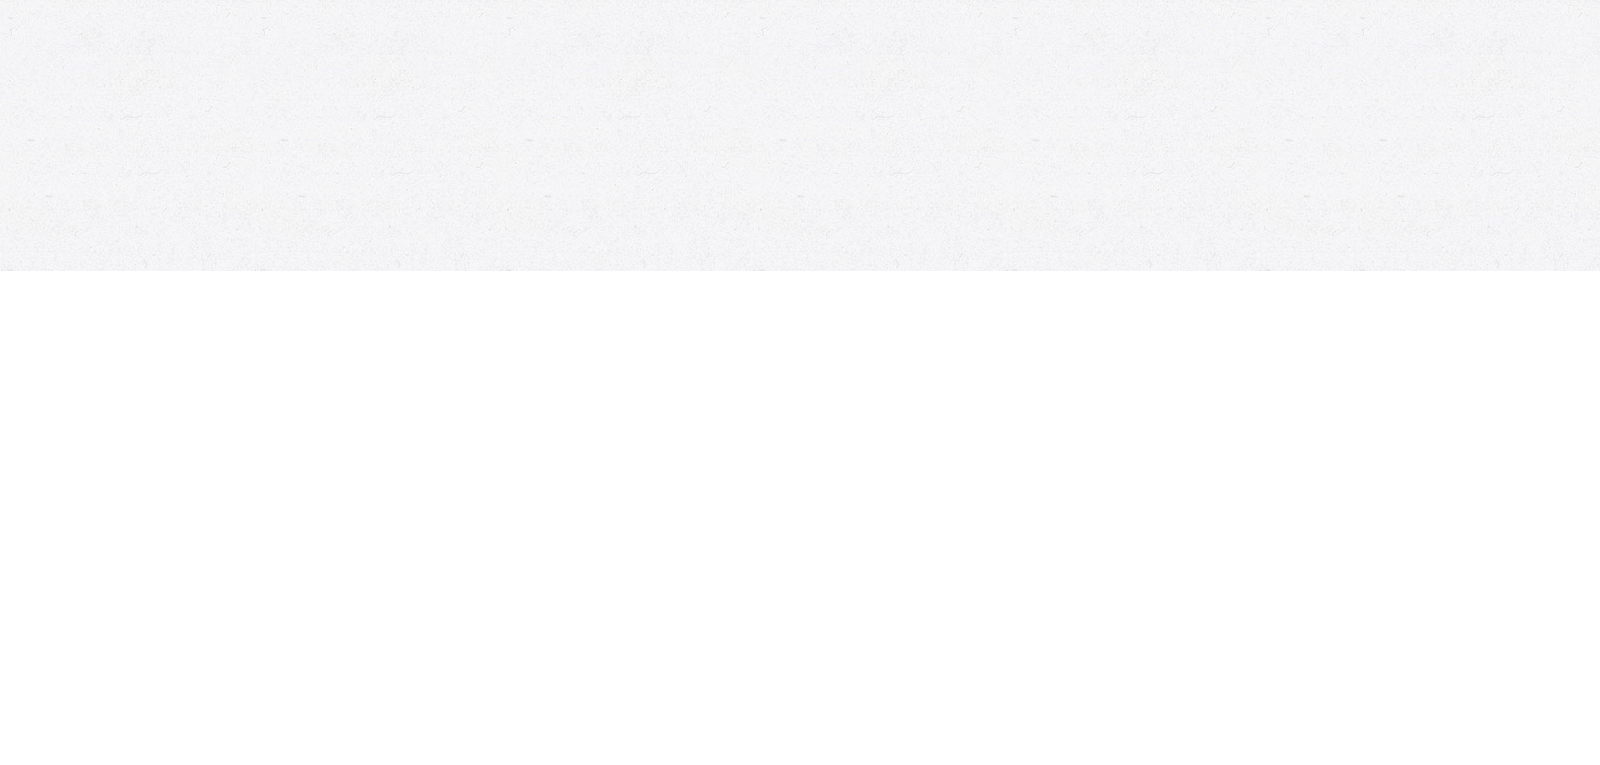
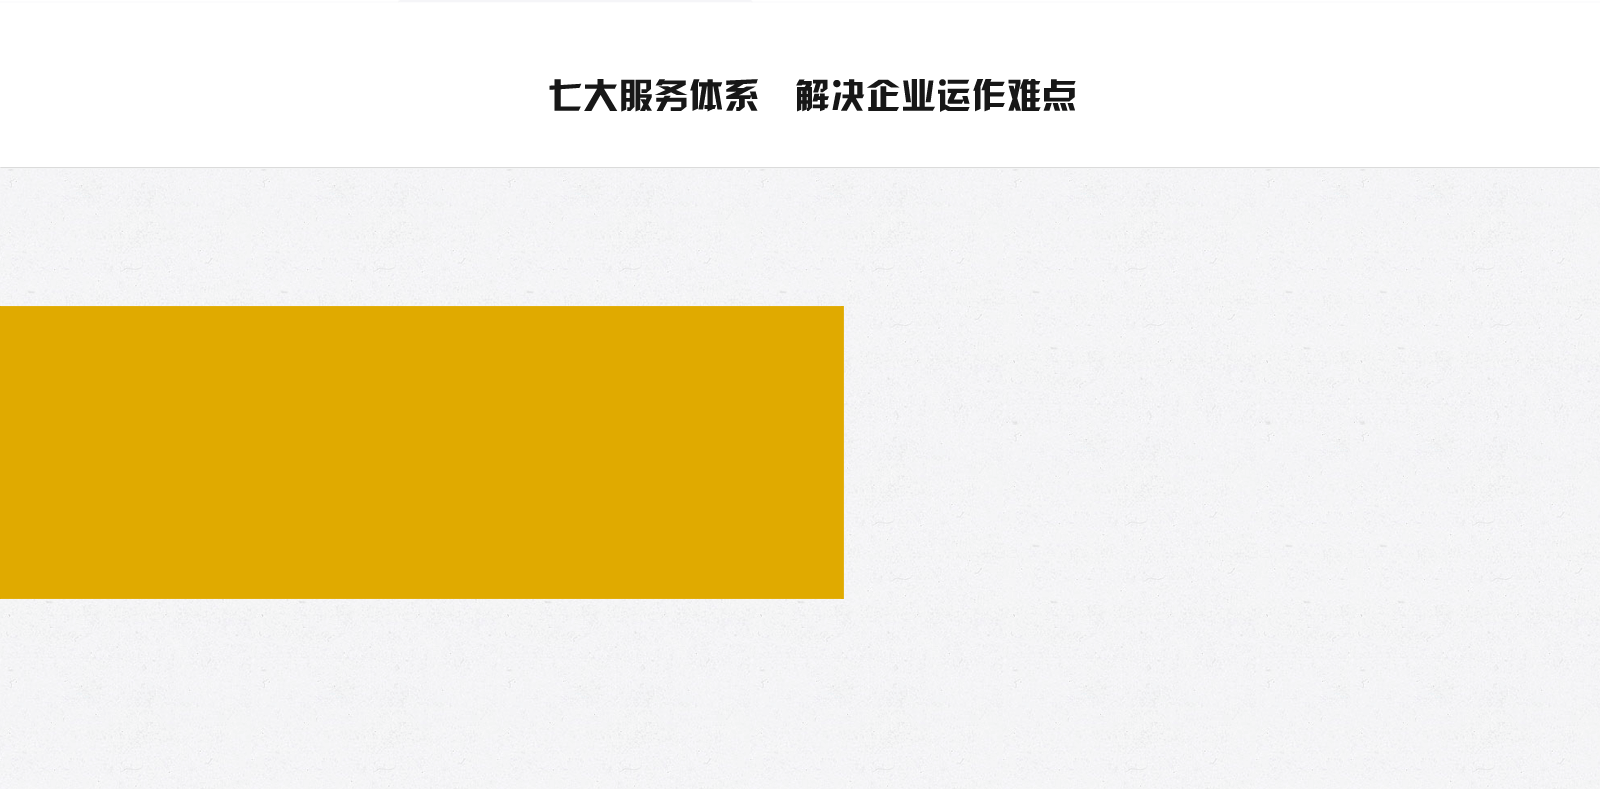
update初步

Changed region(s): [[0.0, 0.3608, 0.5312, 0.7817], [0.3438, 0.0902, 0.6875, 0.1503]]

diff --git a/www/routers/update.vue b/www/routers/update.vue
@@ -8,12 +8,13 @@
         <header1></header1>
         <!--update start-->
         <div update>
-            <div class="swiper-wrapper">
-                <div class="swiper-slide slide1">
-                    <img src="../resources/images/update/update.jpg" alt="">
-                </div>
-                <div class="swiper-slide pr slide2">
+            <div class="update-wrapper">
+                <div class="update-slide slide1">
                     <img src="../resources/images/update/update_01.png" alt="">
+                </div>
+                <div class="update-slide slide2">
+                    <img src="../resources/images/update/update_02.png" alt="">
+                    <img class="slide_two_title" src="../resources/images/update/up_icon/slide_two_title.png" alt="">
                     <div class="up_two_prag" id="animate_2">
                         <p>企业升级服务部以提供专业化服务为宗旨，解决用户在发展过程中遇到的有碍其成长的资金、人力、风险控制等困扰因素为目标，以办公空间为载体，
                             通过提供财税服务、法务服务、人力资源服务、商学院服务、FA服务等内容，与客户建立深度链接、超强黏性，进而带来新的办公空间需求，通过对空
@@ -29,7 +30,8 @@
                         <span><i class="up_icon5"></i>FA服务</span>
                     </div>
                 </div>
-                <div class="swiper-slide slide3">
+                <div class="update-slide slide3">
+                    <img src="../resources/images/update/update_03.png" alt="">
                     <ul class="update_ser_wrap" id="animate2">
                         <li class="clearfix">
                                 <span class="fl up_left_box">
@@ -70,7 +72,8 @@
                         <p>登录幼狮科技企业服务平台，您可以享受舒适的办公空间，结交优质的商业合作伙伴，获得高效的专属服务。</p>
                     </div>
                 </div>
-                <div class="swiper-slide slide4">
+                <div class="update-slide slide4">
+                    <img src="../resources/images/update/update_04.png" alt="">
                     <div class="serice_four_right" id="animate4_1">
                         <h3>财/法/税支持</h3>
                         <p>数家知名会计事务所／律师事务所，针对不同行业，</p>
@@ -99,7 +102,8 @@
                     <img class="male_icon" src="../resources/images/update/male_icon.png" alt="">
 
                 </div>
-                <div class="swiper-slide slide5">
+                <div class="update-slide slide5">
+                    <img src="../resources/images/update/update_05.png" alt="">
                     <img class="light_icon" src="../resources/images/update/light_icon.png" alt="">
 
                     <div class="serice_five_right" id="animate5_1">
@@ -115,7 +119,7 @@
                         </div>
                     </div>
                 </div>
-                <div class="swiper-slide slide6">
+                <div class="update-slide slide6">
                     <img class="female_icon" src="../resources/images/update/female_icon.png" alt="">
                     <div class="serice_six" id="animate6">
                         <h3 class="mb10">幼狮商学院</h3>
@@ -124,7 +128,6 @@
                         <p>同时发起并展开论坛、讲座、沙龙等丰富的交流活动。</p>
                     </div>
                     <img class="four_icon" src="../resources/images/update/four_icon.png" alt="">
-                    <img class="hr_icon" src="../resources/images/update/hr_icon.png" alt="">
                     <div class="serice_seven half" id="animate6_half">
                         <h3 class="mb10">人力资源服务</h3>
                         <p>根据企业发展战略的要求，及对人才的需求</p>
@@ -132,7 +135,8 @@
                         <p>源的有效开发与优化配置</p>
                     </div>
                 </div>
-                <div class="swiper-slide slide7">
+                <div class="update-slide slide7">
+                    <img src="../resources/images/update/update_07.png" alt="">
                     <div class="serice_seven" id="animate7">
                         <h3 class="mb10">人力资源服务</h3>
                         <p>根据企业发展战略的要求，及对人才的需求</p>
@@ -140,31 +144,6 @@
                         <p>源的有效开发与优化配置</p>
                     </div>
                     <img class="hr_icon_1" src="../resources/images/update/hr_icon.png" alt="">
-
-                    <div footer>
-                        <div class="contents foot_head clearfix">
-                            <div class="fl">
-                                <h3>北京幼狮科技有限公司</h3>
-                                <p><i class="commerce_tel"></i>400-078-8800</p>
-                                <p class="lion_address">地址：北京市朝阳区东三环中路39号建外SOHO东区A座2503</p>
-                            </div>
-                            <div class="fr">
-                                <img src="../resources/images/ys_weixin.jpg" alt="幼狮微信"
-                                     style="width: 98px;height: 98px;"/>
-                                <span class="weixin_text">幼狮官网</span>
-                            </div>
-                        </div>
-                        <div class="foot_bot">
-                            <div class="contents">
-                                <span class="bottom_copyright fl">北京幼狮科技有限公司 保留所有权利&nbsp;&nbsp;京ICP备20176444</span>
-                                <div class="fr">
-                                      <span>
-                                          <router-link :to="{ path: '/about',query:{name:0}}">关于我们</router-link>
-                                      </span>
-                                </div>
-                            </div>
-                        </div>
-                    </div>
                 </div>
             </div>
         </div>

diff --git a/www/resources/css/update/update.less b/www/resources/css/update/update.less
@@ -3,43 +3,21 @@
 [update] {
   overflow: hidden;
 
-  .swiper-container {
-    width: 100%;
-    height: 100%;
-    margin-left: auto;
-    margin-right: auto;
+  .update-slide {
+    position: relative;
+    &.slide6{
+      height:650px;
+      background-color: @cl_white;
+    }
   }
-  .swiper-slide {
-    text-align: center;
-    font-size: 18px;
-    background: #fff;
-    &.slide3 {
-      background: url("../../images/update/update_02.png");
-      background-size: 100% 100%;
-    }
-    &.slide4 {
-      background: url("../../images/update/update_03.png");
-      background-size: 100% 100%;
-    }
-    &.slide5 {
-      background: url("../../images/update/update_04.png");
-      background-size: 100% 100%;
-    }
-    &.slide6 {
-      background: url("../../images/update/update_05.png");
-      background-size: 100% 100%;
-    }
-    &.slide7 {
-      background: url("../../images/update/update_06.png");
-      background-size: 100% 100%;
-      [footer] {
-        position: absolute;
-        left: 0;
-        bottom: 0;
-        width: 100%;
-        text-align: left;
-      }
-    }
+
+  .slide_two_title {
+    position: absolute;
+    left: 50%;
+    top: 80px;
+    width: 800px;
+    margin-left: -400px;
+    height: 140px;
   }
 
   .up_two_prag {
@@ -56,7 +34,7 @@
   .update_icon_wrap {
     position: absolute;
     left: 0;
-    bottom: 80px;
+    bottom: 20px;
     width: 100%;
     text-align: center;
     > span {
@@ -197,7 +175,7 @@
     height: 400px;
   }
 
-  .four_icon{
+  .four_icon {
     position: absolute;
     right: 200px;
     top: 210px;
@@ -205,7 +183,7 @@
     height: 110px;
   }
 
-  .hr_icon{
+  .hr_icon {
     position: absolute;
     right: 180px;
     top: 400px;
@@ -213,7 +191,7 @@
     height: 320px;
   }
 
-  .hr_icon_1{
+  .hr_icon_1 {
     position: absolute;
     right: 180px;
     top: 30px;
@@ -221,14 +199,13 @@
     height: 320px;
   }
 
-  .light_icon{
+  .light_icon {
     position: absolute;
     right: 140px;
     top: 70px;
     width: 1100px;
     height: 540px;
   }
-
 
   .serice_four_left, .serice_five_left {
     position: absolute;
@@ -284,8 +261,8 @@
     left: 320px;
     top: 150px;
     text-align: right;
-    &.half{
-      top:530px;
+    &.half {
+      top: 530px;
     }
     .service_four_item {
       margin-bottom: 20px;
@@ -304,10 +281,6 @@
 @media screen and (min-width: 1500px) {
   //banner
   [update] {
-    height: 940px;
-    .swiper-container {
-      height: 100%;
-    }
 
     .up_two_prag {
       position: absolute;
@@ -329,7 +302,7 @@
     }
 
     .update_icon_wrap {
-      bottom: 150px;
+      bottom: 20px;
       > span {
         i {
           width: 60px;
@@ -393,7 +366,7 @@
       height: 440px;
     }
 
-    .hr_icon{
+    .hr_icon {
       position: absolute;
       right: 360px;
       top: 650px;
@@ -401,7 +374,7 @@
       height: 400px;
     }
 
-    .hr_icon_1{
+    .hr_icon_1 {
       position: absolute;
       right: 360px;
       top: 60px;
@@ -409,7 +382,7 @@
       height: 400px;
     }
 
-    .light_icon{
+    .light_icon {
       position: absolute;
       right: 360px;
       top: 120px;
@@ -417,7 +390,7 @@
       height: 650px;
     }
 
-    .four_icon{
+    .four_icon {
       position: absolute;
       right: 350px;
       top: 320px;
@@ -471,13 +444,13 @@
       }
     }
 
-    .serice_seven{
+    .serice_seven {
       position: absolute;
       left: 550px;
       top: 260px;
       text-align: right;
-      &.half{
-        top:840px;
+      &.half {
+        top: 840px;
       }
     }
 
